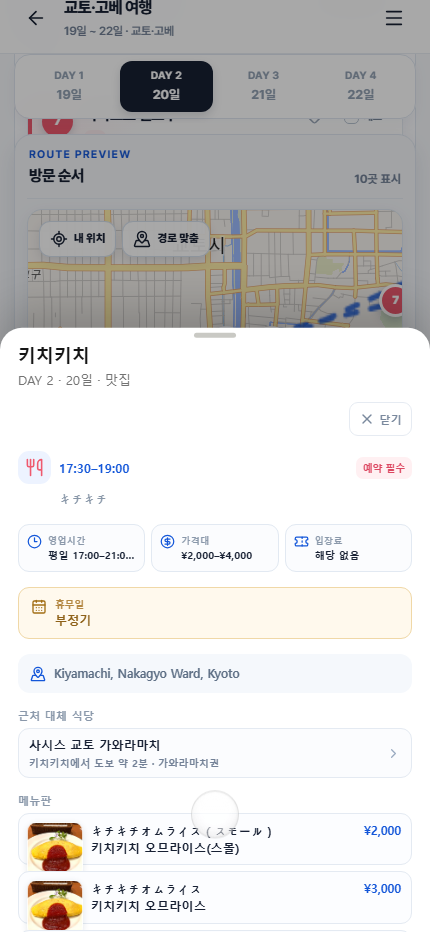
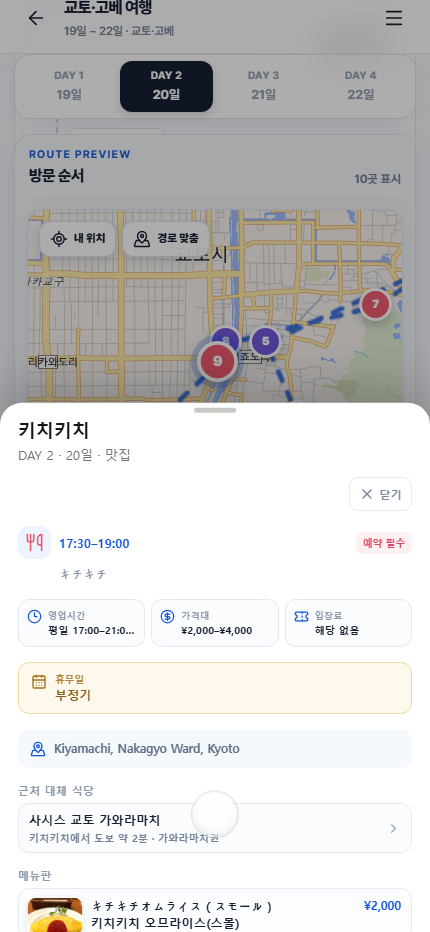
Add mobile scroll to top control

diff --git a/src/Prototype.tsx b/src/Prototype.tsx
@@ -8,6 +8,7 @@ import "leaflet/dist/leaflet.css";
 import "maplibre-gl/dist/maplibre-gl.css";
 import {
   ArrowLeft,
+  ArrowUp,
   Bookmark,
   CalendarDays,
   Camera,
@@ -607,6 +608,22 @@ function BottomNav({ view, setView }: { view: View; setView: (view: View) => voi
   return <nav className="trip-bottom-nav" aria-label="주요 메뉴">{items.map(({ key, label, icon: Icon }) => <button type="button" key={key} className={view === key ? "is-active" : ""} onClick={() => setView(key)} aria-current={view === key ? "page" : undefined}><Icon size={20} fill={key === "saved" && view === key ? "currentColor" : "none"} /><span>{label}</span></button>)}</nav>;
 }
 
+function ScrollToTopButton() {
+  const [visible, setVisible] = useState(false);
+
+  useEffect(() => {
+    const scroll = document.querySelector<HTMLElement>('[data-testid="mobile-scroll"]');
+    if (!scroll) return;
+    const update = () => setVisible(scroll.scrollTop > 280);
+    update();
+    scroll.addEventListener("scroll", update, { passive: true });
+    return () => scroll.removeEventListener("scroll", update);
+  }, []);
+
+  if (!visible) return null;
+  return <button type="button" className="scroll-top-button" aria-label="맨 위로 이동" onClick={() => document.querySelector<HTMLElement>('[data-testid="mobile-scroll"]')?.scrollTo({ top: 0, behavior: "smooth" })}><ArrowUp size={19} strokeWidth={2.1} /></button>;
+}
+
 export default function Prototype() {
   const persisted = useMemo(() => readLocalState(), []);
   const [view, setView] = useState<View>("schedule");
@@ -690,5 +707,5 @@ export default function Prototype() {
   };
   const appContent: ReactNode = view === "schedule" ? <ScheduleView activeDay={activeDay} selectedPlace={selectedPlace} selectedPlaceId={selectedPlaceId} showAlternatives={showAlternatives} setShowAlternatives={setShowAlternatives} actualOnly={actualOnly} onToggleActualOnly={() => { setActualOnly((current) => !current); setSheetOpen(false); }} onAddPlace={() => openEditor()} onSelectPlace={selectPlace} onFocusPlace={focusPlace} onToggleComplete={(id) => toggleId(setCompletedIds, id)} onToggleFavorite={(id) => toggleId(setFavoriteIds, id)} completedIds={completedIds} favoriteIds={favoriteIds} userLocation={userLocation} onUserLocation={setUserLocation} onDayChange={selectDay} /> : view === "map" ? <AllMapView allPlaces={allPlaces} selectedPlace={selectedPlace} onSelectPlace={selectPlace} onUserLocation={setUserLocation} userLocation={userLocation} /> : view === "reservations" ? <ReservationsView places={allPlaces} reservationDoneIds={reservationDoneIds} onToggleReservation={(id) => toggleId(setReservationDoneIds, id)} onSelectPlace={selectPlace} /> : <SavedView places={allPlaces} favoriteIds={favoriteIds} notes={notes} onSelectPlace={selectPlace} />;
 
-  return <div className="trip-app"><MobileScroll className="trip-scroll"><div className="trip-scroll-content"><AppHeader view={view} menuOpen={menuOpen} setMenuOpen={setMenuOpen} setView={setView} />{appContent}</div></MobileScroll><BottomNav view={view} setView={(nextView) => { setView(nextView); setMenuOpen(false); }} /><PlaceDetailSheet place={selectedPlace} day={selectedPlaceDay} open={sheetOpen} onClose={() => setSheetOpen(false)} note={selectedPlace ? notes[selectedPlace.id] ?? "" : ""} onNoteChange={(note) => { if (selectedPlace) setNotes((current) => ({ ...current, [selectedPlace.id]: note })); }} completed={selectedPlace ? completedIds.includes(selectedPlace.id) : false} favorite={selectedPlace ? favoriteIds.includes(selectedPlace.id) : false} onToggleComplete={() => { if (selectedPlace) toggleId(setCompletedIds, selectedPlace.id); }} onToggleFavorite={() => { if (selectedPlace) toggleId(setFavoriteIds, selectedPlace.id); }} onEdit={() => { if (selectedPlace) openEditor(selectedPlace); }} onDelete={deleteSelectedPlace} /><PlaceEditorSheet place={editorPlace} open={editorOpen} completed={editorPlace ? completedIds.includes(editorPlace.id) : false} onClose={() => { setEditorOpen(false); setEditorPlace(null); }} onSave={savePlaceDraft} /></div>;
+  return <div className="trip-app"><MobileScroll className="trip-scroll"><div className="trip-scroll-content"><AppHeader view={view} menuOpen={menuOpen} setMenuOpen={setMenuOpen} setView={setView} />{appContent}</div></MobileScroll><ScrollToTopButton /><BottomNav view={view} setView={(nextView) => { setView(nextView); setMenuOpen(false); }} /><PlaceDetailSheet place={selectedPlace} day={selectedPlaceDay} open={sheetOpen} onClose={() => setSheetOpen(false)} note={selectedPlace ? notes[selectedPlace.id] ?? "" : ""} onNoteChange={(note) => { if (selectedPlace) setNotes((current) => ({ ...current, [selectedPlace.id]: note })); }} completed={selectedPlace ? completedIds.includes(selectedPlace.id) : false} favorite={selectedPlace ? favoriteIds.includes(selectedPlace.id) : false} onToggleComplete={() => { if (selectedPlace) toggleId(setCompletedIds, selectedPlace.id); }} onToggleFavorite={() => { if (selectedPlace) toggleId(setFavoriteIds, selectedPlace.id); }} onEdit={() => { if (selectedPlace) openEditor(selectedPlace); }} onDelete={deleteSelectedPlace} /><PlaceEditorSheet place={editorPlace} open={editorOpen} completed={editorPlace ? completedIds.includes(editorPlace.id) : false} onClose={() => { setEditorOpen(false); setEditorPlace(null); }} onSave={savePlaceDraft} /></div>;
 }

diff --git a/src/prototype.css b/src/prototype.css
@@ -1629,6 +1629,29 @@
   backdrop-filter: blur(16px);
 }
 
+.scroll-top-button {
+  position: absolute;
+  z-index: 13;
+  right: 14px;
+  bottom: calc(var(--device-safe-area-bottom, 34px) + 82px);
+  display: grid;
+  width: 42px;
+  height: 42px;
+  place-items: center;
+  border: 1px solid #d8e2ee;
+  border-radius: 50%;
+  background: rgba(255, 255, 255, 0.96);
+  color: var(--blue);
+  box-shadow: 0 8px 20px rgba(31, 50, 78, 0.14);
+  backdrop-filter: blur(12px);
+}
+
+.scroll-top-button:hover,
+.scroll-top-button:focus-visible {
+  border-color: #9fb9e4;
+  background: #f3f7ff;
+}
+
 .full-screen-screen .trip-bottom-nav {
   bottom: var(--device-safe-area-bottom, 0px);
 }

diff --git a/README.md b/README.md
@@ -152,7 +152,7 @@ Notion 토큰은 프론트 코드에 포함하지 않습니다. 여행 데이터
 - 기준 식당 주변의 대체 식당 후보, 예약 링크, 공식 정보·메뉴 원문 링크를 상세 화면에서 확인할 수 있습니다.
 - 사용자가 지정한 사이트와 공식 페이지를 조사해 장소 정보의 원문 링크를 남기고, 안정적·허용된 대표 이미지 URL을 연결합니다. 이미지 출처가 불명확하면 지도/카테고리 폴백을 사용합니다.
 - 실제 방문 체크, 즐겨찾기, 현지 메모, 장소 추가·수정·삭제, 실제 방문 장소만 보기, 새로고침 후 상태 유지를 지원합니다.
-- 모바일 헤더·카드·이미지·하단 내비게이션의 잘림과 상세 시트 내부 스크롤을 반응형으로 보정했습니다. Pretendard 우선 폰트와 섹션 경계선도 공통 적용하고, 일정 상단의 방문 체크·장소 추가·대체 후보 컨트롤은 같은 높이의 한 줄 행으로 정렬합니다. 헤더의 실제 렌더링 높이를 sticky 기준과 일치시켜 헤더·DAY 탭·지도 사이의 겹침도 방지합니다.
+- 모바일 헤더·카드·이미지·하단 내비게이션의 잘림과 상세 시트 내부 스크롤을 반응형으로 보정했습니다. Pretendard 우선 폰트와 섹션 경계선도 공통 적용하고, 일정 상단의 방문 체크·장소 추가·대체 후보 컨트롤은 같은 높이의 한 줄 행으로 정렬합니다. 헤더의 실제 렌더링 높이를 sticky 기준과 일치시켜 헤더·DAY 탭·지도 사이의 겹침도 방지하고, 일정 스크롤이 길어지면 맨 위로 이동 버튼을 제공합니다.
 - 같은 숙소를 하루의 시작·종료 지점으로 반복해도 지도에서 순번 마커가 겹치지 않도록 좌우로 분리해 1번과 10번을 모두 확인할 수 있습니다. 실제 좌표와 이동 경로 데이터는 그대로 유지합니다.
 - 사용자가 제공한 교토·고베 숙소 이미지를 앱 자산으로 반영했고, 비용 문제로 제외한 사이호지는 일정에서 제거했습니다.
 
@@ -246,7 +246,7 @@ Notion 토큰은 프론트 코드에 포함하지 않습니다. 여행 데이터
 | 화면 | 주요 기능 |
 | --- | --- |
 | 허브 | 여행지별 진입점, 여행 기간·지역 요약 |
-| 일정 | 헤더 아래 고정형 DAY 1~4 탭·지도, 장소 목록 스크롤, 실제 방문 수, 대체 후보 토글, 장소 추가 |
+| 일정 | 헤더 아래 고정형 DAY 1~4 탭·지도, 장소 목록 스크롤, 맨 위로 이동, 실제 방문 수, 대체 후보 토글, 장소 추가 |
 | 지도 | 한글 지도, 카테고리별 방문 순서 마커, 겹치는 좌표 마커 분리, 마커→카드 포커스, 내 위치·경로 맞춤 |
 | 장소 카드 | 카테고리 아이콘·색상, 대표 이미지, 영업시간, 휴무일, 가격, 체크·즐겨찾기 |
 | 상세 시트 | 주소, Google Maps·길찾기, 예약 링크, 메뉴 원문·번역, 음식 사진, 대체 식당 |

diff --git a/.agents/skills/travel-map-builder/references/design-system.md b/.agents/skills/travel-map-builder/references/design-system.md
@@ -15,6 +15,7 @@
 - 장소 카드는 둥근 흰색 surface, 얇은 경계선, 왼쪽 category accent, category 색상의 순번 원, 카테고리 아이콘, 오른쪽 대표 이미지·즐겨찾기·방문 체크로 구성합니다.
 - 상세 정보는 새 페이지나 일반 desktop modal이 아니라 휴대폰 화면 안의 스크롤 가능한 `BottomSheet`입니다.
 - 하단에는 일정·지도·예약·저장 4개 항목의 고정 bottom navigation을 둡니다.
+- 긴 일정 목록을 읽을 때 하단 내비게이션을 침범하지 않는 floating `맨 위로 이동` 버튼을 제공하고, 스크롤이 충분히 내려간 뒤에만 표시합니다.
 
 실제 캡처는 다음 파일을 시각 검수 기준으로 사용합니다.
 
@@ -71,6 +72,7 @@
 
 - 360px 내외의 Android/iPhone 폭에서 가로 스크롤이 없고, 제목·컨트롤·카드가 한 줄 규칙을 지킵니다.
 - 393~430px 모바일 화면에서 헤더·DAY 탭·sticky 지도·첫 카드·하단 내비가 서로 가리지 않습니다. 헤더 하단과 DAY 탭 상단은 0px, DAY 탭 하단과 지도 상단은 일정한 여백을 유지해야 합니다.
+- 맨 위로 이동 버튼은 하단 내비게이션 위에 고정되고, 280px 이하의 초기 스크롤에서는 보이지 않으며, 활성화 후 누르면 `MobileScroll`의 최상단으로 돌아갑니다.
 - 넓은 시뮬레이터에서도 앱 콘텐츠는 휴대폰 화면 안에서만 확장되고, 임의의 desktop dashboard로 변하지 않습니다.
 - 지도 마커 선택 시 상세 시트가 닫힌 상태로 카드가 지도 아래에 노출되고, 카드 선택 시 상세 시트 안에서 메뉴·이미지·대체 식당·메모를 끝까지 스크롤할 수 있습니다.
 - 첫 번째와 마지막 장소, 숙소 시작·종료 반복, 이미지가 없는 장소, 긴 한국어 장소명, 두 줄 메뉴명을 확인합니다.
